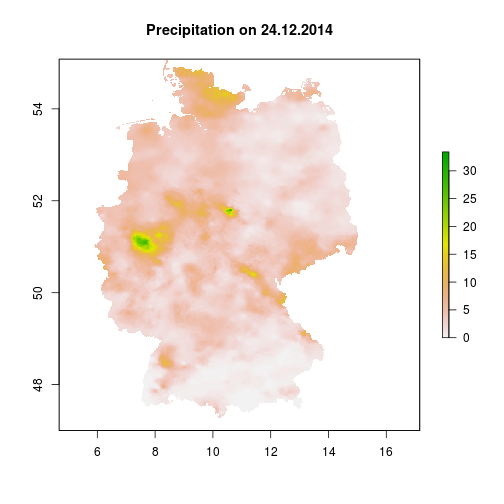
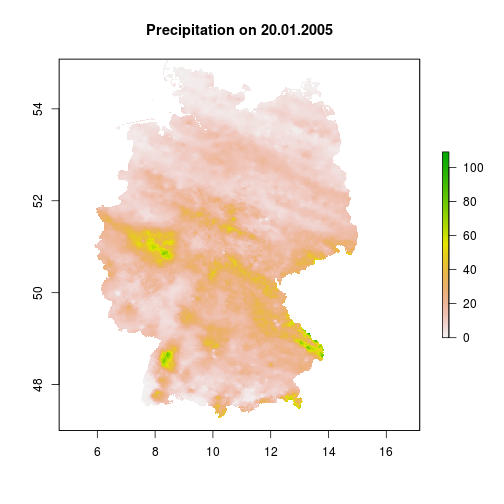
fix regnie code

diff --git a/_posts/2015-07-27-regnie.md b/_posts/2015-07-27-regnie.md
@@ -53,28 +53,13 @@ To read the file you can simply use (for downloaded data just use the path to th
 {% highlight r %}
 require(esmisc)
 # read the file shipped with esmisc
-r <- read_regnie(system.file('extdata', 'ra141224.gz', package = 'esmisc'))
-{% endhighlight %}
-
-
-
-{% highlight text %}
-## Error: '' does not exist in current working directory ('/home/edisz/Documents/other/edild.github.com').
-{% endhighlight %}
-
-
-
-{% highlight r %}
+r <- read_regnie(system.file("extdata", "ra050120.gz", package = "esmisc"))
 # plot the raster
 require(raster)
-plot(r, main = 'Precipitation on 24.12.2014')
+plot(r, main = 'Precipitation on 20.01.2005')
 {% endhighlight %}
 
-
-
-{% highlight text %}
-## Error in plot(r, main = "Precipitation on 24.12.2014"): object 'r' not found
-{% endhighlight %}
+![plot of chunk regnie](/figures/regnie-1.png)
  
 Et viola, the precipitation values are given in mm and the CRS is longlat.
 In a next step you could reproject the raster (using the `projectRaster()` function [slow, but R] or [gdalwarp](http://www.gdal.org/gdalwarp.html) [faster]) or extract values from the raster (using `extract()`).
